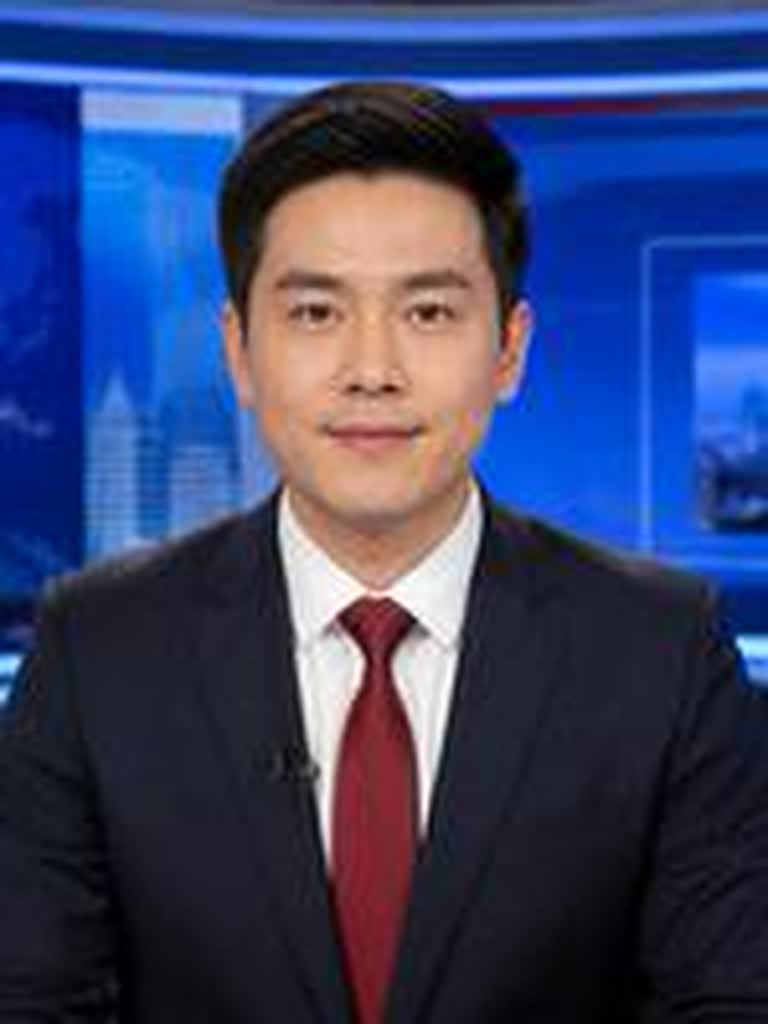
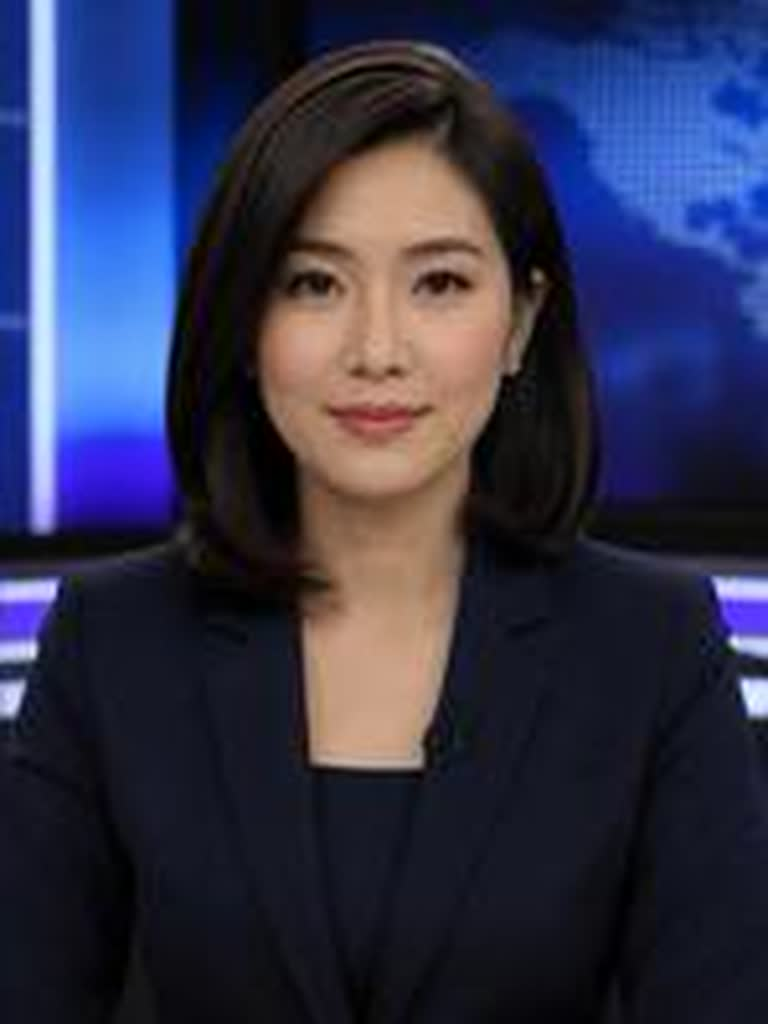
media: female presenter (Premwadee voice, ค่ะ/ดิฉัน) and fix SadTalker torch install
Claude-Session: https://claude.ai/code/session_01UdwjLvxpBkjwdLhFWv7JEe

diff --git a/scripts/make_media.py b/scripts/make_media.py
@@ -35,7 +35,7 @@ DEFAULT_CHROME = "/opt/pw-browsers/chromium-1194/chrome-linux/chrome"
 FPS = 30
 W, H = 1080, 1920
 GAP = 0.45          # silence between narration segments (seconds)
-THAI_VOICE = os.environ.get("MEDIA_VOICE", "th-TH-NiwatNeural")   # edge-tts neural Thai voice
+THAI_VOICE = os.environ.get("MEDIA_VOICE", "th-TH-PremwadeeNeural")   # edge-tts neural Thai voice
 ESPEAK = ["espeak-ng", "-v", "th", "-s", "190", "-p", "42"]       # offline fallback, only with MEDIA_TTS=espeak
 
 INK, PAPER, RED, YELLOW, TEAL = "#111111", "#f4f1ea", "#e63b2e", "#ffd23f", "#0f4a4a"

diff --git a/media/2026-10-20/sources.md b/media/2026-10-20/sources.md
@@ -36,7 +36,7 @@
 7. **เปิดบทความต้นทางไม่ได้**: เครื่องนี้เข้า cnbc.com และ techcrunch.com ไม่ได้ รายละเอียด "ความเป็นมา" จึงมาจากข่าวอื่นที่เก็บไว้ใน repo (ลิงก์ในตารางด้านบน) ไม่ใช่จากเนื้อหาบทความเต็ม
 8. **มุมมอง**: มาจากบทวิเคราะห์ของ Claude เท่านั้น อยู่ในกล่องเส้นประ "มุมมองจากบทวิเคราะห์ · ไม่ใช่ข้อเท็จจริง" พร้อมระดับความมั่นใจ ที่มา: `analysis/2026-10/2026-10-15-2day.md`, `analysis/2026-10/2026-10-19-2day.md`, `memory/themes.md` บทวิเคราะห์ 19 ต.ค. ใช้ข่าว 17–18 ต.ค. จึงยังไม่ได้พูดถึง 3 ข่าววันนี้โดยตรง มุมมองที่ใส่เป็นของธีมเดียวกัน การโยง Nscale กับธีม "ไฟฟ้าจาก AI" เป็นการจับคู่ของผมเอง (บทวิเคราะห์โยงหนี้ผู้ให้เช่าคอมพิวต์ AI กับผู้ขายชิปและไฟฟ้า)
 9. **ภาพประกอบ**: วาดด้วยโค้ด (`scripts/media_art.py` ภาพ 3 มิติแบบ isometric) ไม่ใช่รูปถ่ายข่าวจริง ไม่ได้ใช้ Canva เพราะเครื่องนี้โหลดไฟล์ภาพขนาดเต็มจาก Canva ไม่ได้ ชิ้นงานวาดด้วย `scripts/make_media.py` (HTML + Chromium + ffmpeg ฟอนต์ Kanit) จาก `content.json` ในโฟลเดอร์นี้
-10. **เสียงผู้ประกาศ**: เสียงไทย Neural (edge-tts, th-TH-NiwatNeural) ทำโดย GitHub Actions workflow `Render media video` คำพูดทุกประโยคมาจากข้อเท็จจริงและมุมมองในตารางด้านบน
+10. **เสียงผู้ประกาศ**: เสียงไทย Neural (edge-tts, th-TH-PremwadeeNeural) ทำโดย GitHub Actions workflow `Render media video` คำพูดทุกประโยคมาจากข้อเท็จจริงและมุมมองในตารางด้านบน
 
 ## ไฟล์ในโฟลเดอร์นี้
 

diff --git a/media/2026-10-21/sources.md b/media/2026-10-21/sources.md
@@ -38,7 +38,7 @@
 3. **ราคาเป็นของวันอังคาร 20 ต.ค.** ตามที่บทวิเคราะห์หมายเหตุไว้
 4. **มุมธุรกิจ (ค่าเดินทางช่าง)** มาจากหัวข้อ "มุมธุรกิจเจ้าของ" ในบทวิเคราะห์ ไม่มีระดับความมั่นใจ จึงแสดงเป็นป้าย "บันทึก"
 5. **เปิดบทความต้นทางไม่ได้** เครื่องนี้เข้าเว็บข่าวไม่ได้ รายละเอียดมาจากข่าวอื่นที่ repo เก็บไว้
-6. **เสียงผู้ประกาศ**: เสียงไทย Neural (edge-tts, th-TH-NiwatNeural) ทำโดย GitHub Actions workflow `Render media video` คำพูดทุกประโยคมาจากข้อเท็จจริงและมุมมองในตารางด้านบน
+6. **เสียงผู้ประกาศ**: เสียงไทย Neural (edge-tts, th-TH-PremwadeeNeural) ทำโดย GitHub Actions workflow `Render media video` คำพูดทุกประโยคมาจากข้อเท็จจริงและมุมมองในตารางด้านบน
 
 ## ไฟล์ในโฟลเดอร์นี้
 
